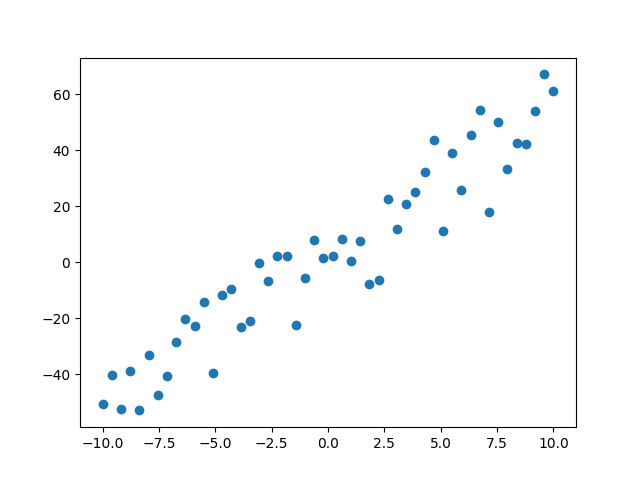
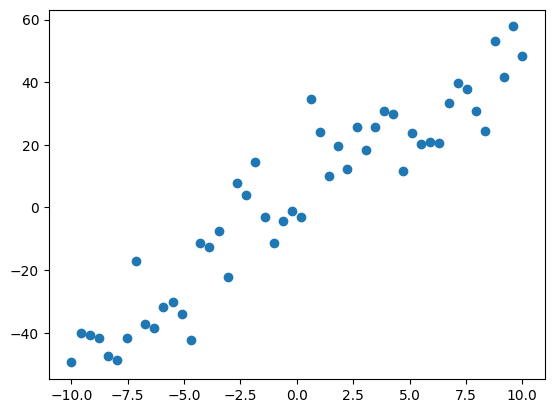
small change

diff --git a/test.py b/test.py
@@ -8,5 +8,5 @@ x_data = np.linspace(-10, +10, 50)
 y_data = x_data * 5.0 + 3.5 + 10.0 * np.random.normal(0, 1.0, size=len(x_data))
 
 plt.scatter(x_data, y_data)
-plt.savefig("Original-scatter.png")
+plt.savefig("Original-scatter.png", bbox_inches='tight')
 PlotProfileHistogram(x_data, y_data, output_filepath="Profile-Histogram.png")
